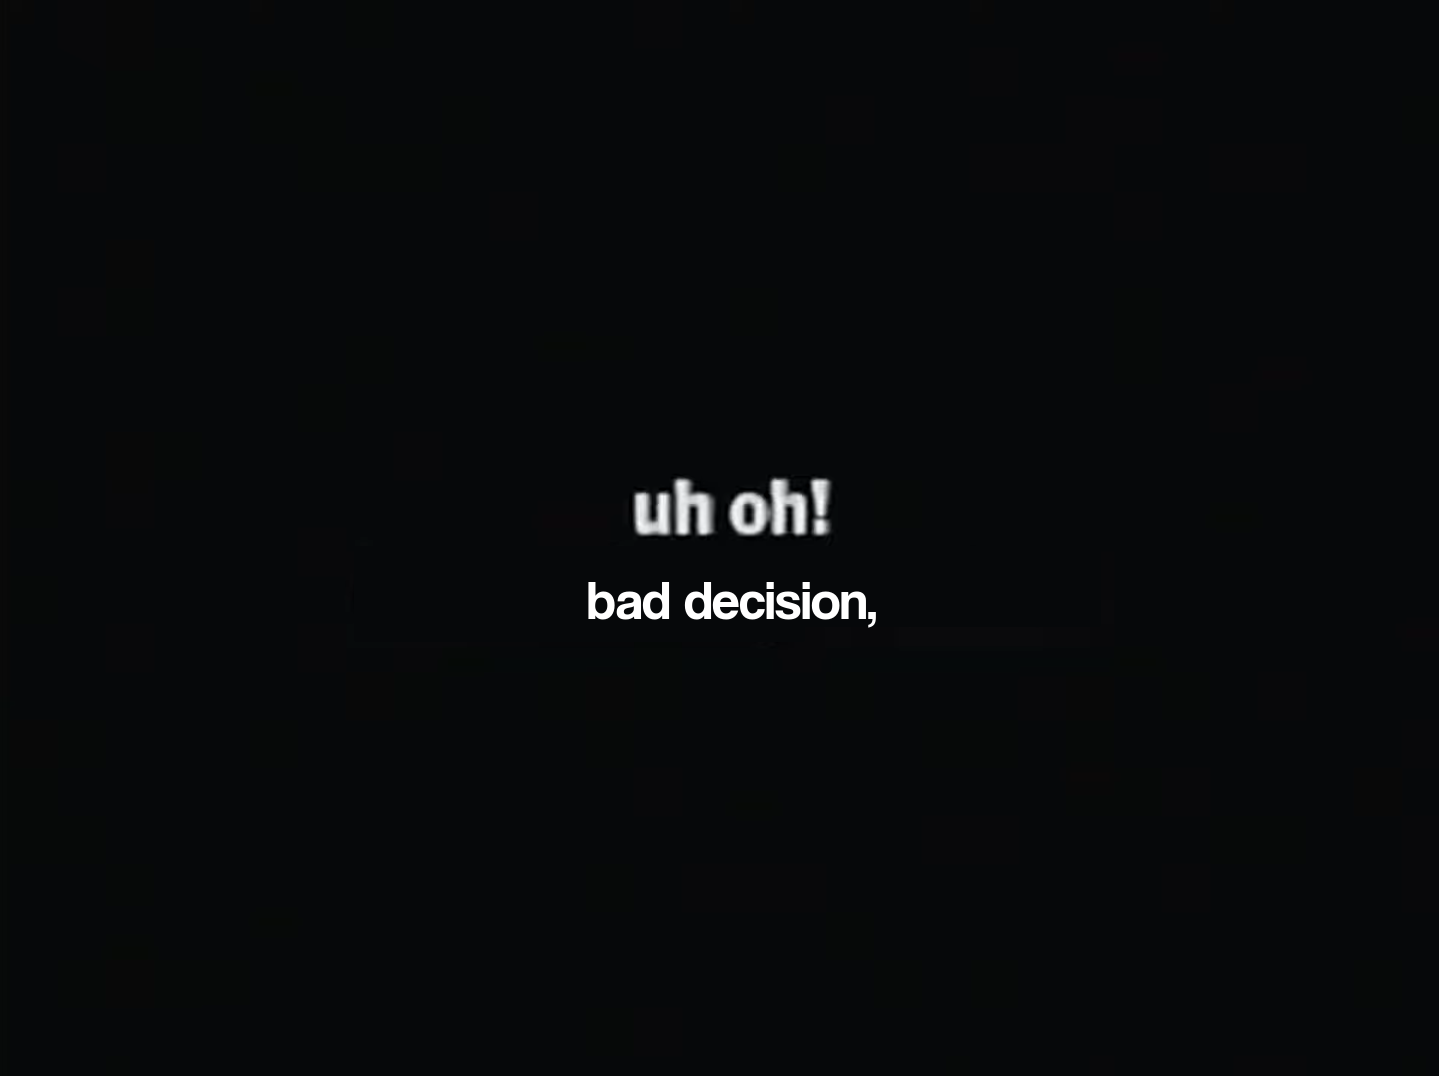
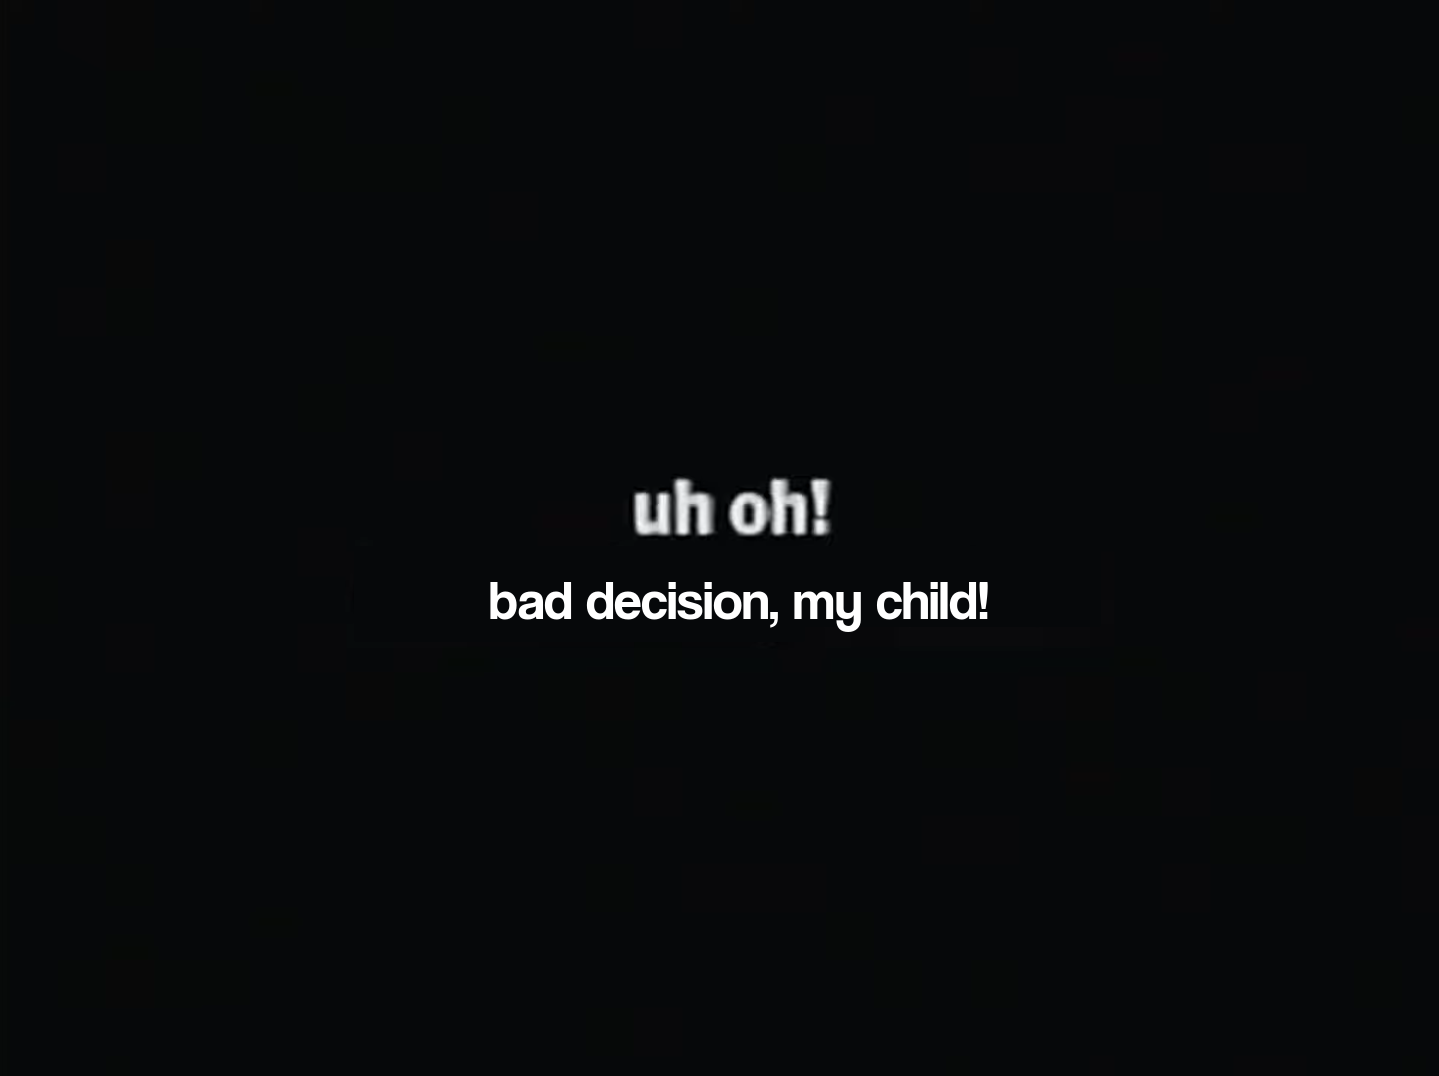
final edit

Changed region(s): [[0.3363, 0.5214, 0.7033, 0.5827]]

diff --git a/Image Editor/main.py b/Image Editor/main.py
@@ -11,6 +11,7 @@ from PIL import ImageFont
 from PIL import Image
 from PIL import ImageDraw
 from PIL import ImageTk
+
 # path of py file declaration
 __location__ = os.path.realpath(os.path.join(os.getcwd(), os.path.dirname(__file__)))
 
@@ -19,7 +20,7 @@ win = tk.Tk()
 win.title("Mandela Catalogue Image Editor")
 win.iconbitmap(os.path.join(__location__, "Intruder.ico"))
 
-# font
+# font and ending of a thread
 AnaHor = Font(
     family="VCR OSD Mono",
     size=40,
@@ -28,6 +29,7 @@ AnaHor = Font(
     underline=0
 )
 end = 0
+
 # config of canvas
 betterWin1 = tk.Canvas(win, width=400, height=300)
 betterWin1.pack()
@@ -42,13 +44,17 @@ betterWin1.create_window(200, 140, window=entry1)
 # function of image editing
 def ImageEditing ():
     name = entry1.get()
+    if name == "":
+        name = "my child"
     img = Image.open(os.path.join(__location__, "edit_img.png"))
     ManCatFont = ImageFont.truetype(os.path.join(__location__, "coolvetica rg.ttf"), 55)
-    text1 = "bad decision, " + name
+    text1 = "bad decision, " + name + "!"
     draw = ImageDraw.Draw(img)
     center = draw.textlength(text1, font=ManCatFont)
     draw.text((((1439-center)/2)+20, 565), text1, font=ManCatFont)
     img = img.save("final.png")
+
+# threading of the Intruder in the background 
 def background():
     i = 1
     while i<100:
@@ -58,20 +64,28 @@ def background():
         i+=1
         if end==1:
             break
+
 # scary function or something idk i just need to practice this shit
 def IntruderAlert ():
+    # seting up the toplevel
     win2 = tk.Toplevel(win)
     win2.title("Mandela Catalogue Image Editor")
     win2.iconbitmap(os.path.join(__location__, "Intruder.ico"))
     win2.geometry("902x688")
+
+    # background image settings
     global imgbg
     imgBg = Image.open(os.path.join(__location__, "Intruder.png")).resize((902, 688))
     imgbg = ImageTk.PhotoImage(imgBg)
     bg_label = tk.Label(win2, image=imgbg)
     bg_label.place(x=0, y=0, relwidth=1, relheight=1)
     win2.update()
+
+    # label settings
     label2 = tk.Label(win2, text="I am inside your home", font=AnaHor)
     label2.pack(pady=20)
+
+    # settings of music in the background
     pygame.mixer.init()
     threading.Thread(name='background', target=background).daemon = True
     threading.Thread(name='background', target=background).start()
@@ -82,27 +96,6 @@ def IntruderAlert ():
 buttonSubmit = tk.Button(text='Submit', command=lambda: [ImageEditing(), IntruderAlert()])
 betterWin1.create_window(200, 170, window=buttonSubmit)
 
-# looping window
+# looping window and ending program
 win.mainloop()
 end=1
-
-'''
-    ManCatFont = Font(
-        family="Coolvetica",
-        size=49,
-        weight="bold",
-        underline=0,
-        overstrike=0,
-    )
-# open image
-img = Image.open('/home/ubuntu/image.png')
-
-# draw image object
-I1 = ImageDraw.Draw(img)
-
-# add text to image
-I1.text((28, 36), "hello world", fill=(255, 0, 0))
-
-# save image
-img.save("/home/ubuntu/image.png")
-'''
